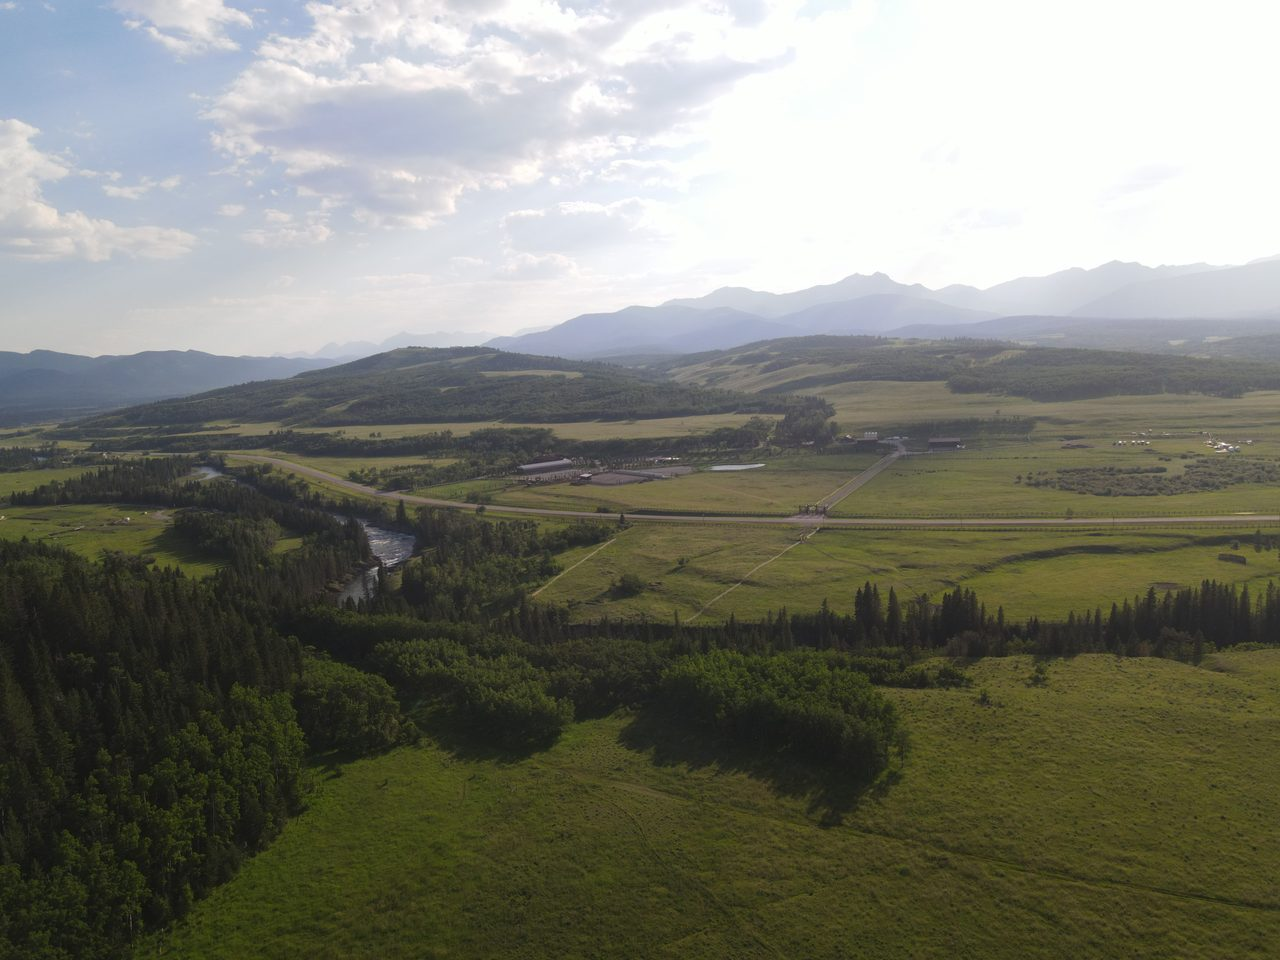
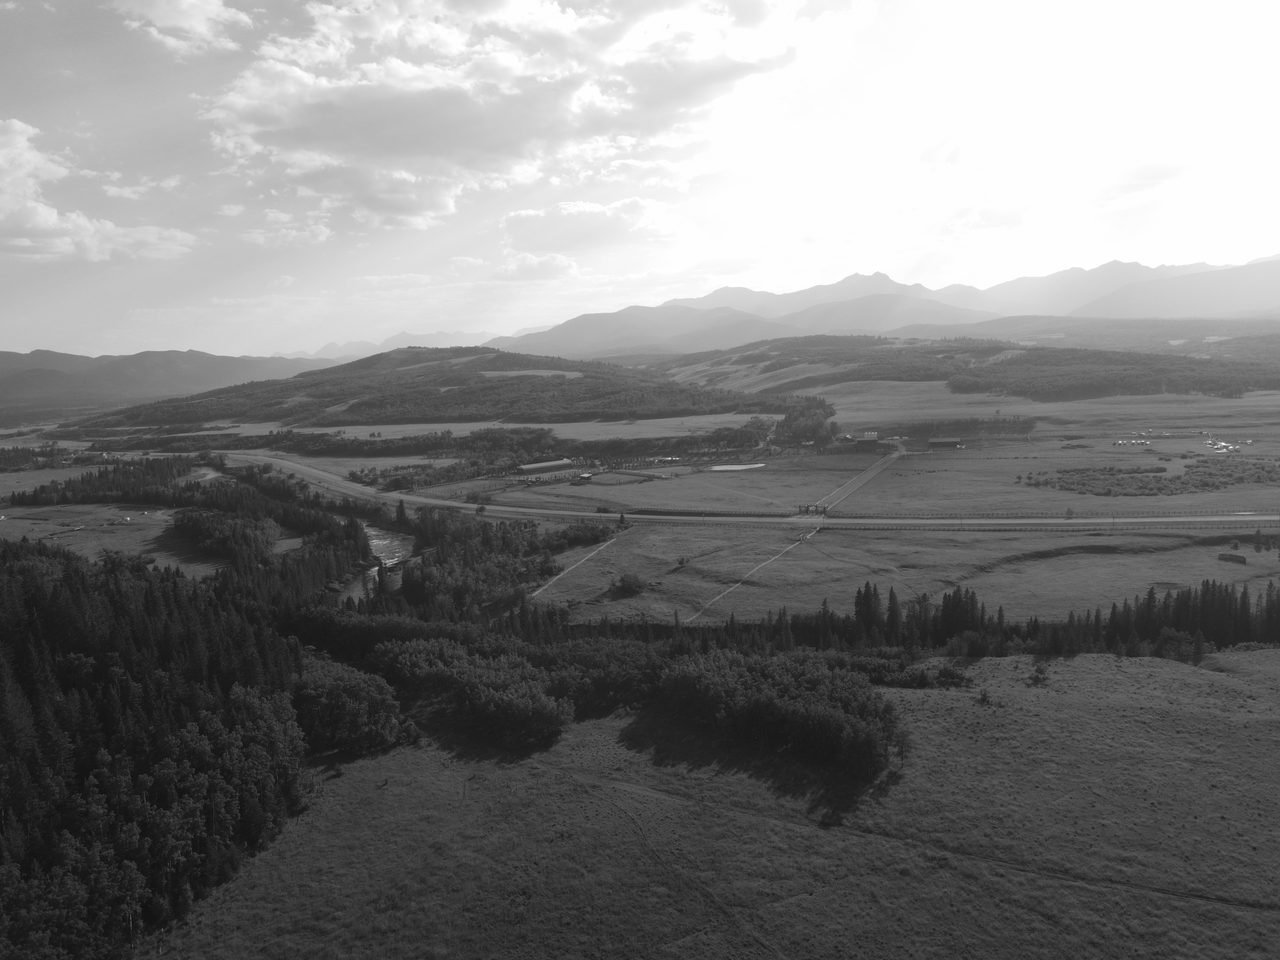
History page: era photo treatments (B&W, sepia, vintage 70s tone)
1885 (Henry Minesinger): converted aerial-summer-valley to black & white.
Only used on this one era, so edited in place -- confirmed via grep before
touching it.

1920-1947 (Weadick & LaDue): replaced the text-only placeholder with the
supplied cabin photo, sepia-toned (classic sepia matrix + slight contrast/
brightness adjustment), framed with the same card__frame ornament used on
every other era photo. Captioned honestly as an illustrative stand-in
('the real Weadick & LaDue archival photograph is still being sourced'),
matching the site's existing pattern for placeholder imagery (e.g. the
'archive stand-ins' language already used on venues.html) rather than
presenting a modern photo as authentic period material.

1965-2013 (Edey/Stampede Boys' Ranch): applied a 1960s/70s vintage color
grade to winter-wagon-barn -- lifted shadows, warm red/yellow cast, pulled
blue, reduced contrast and saturation, soft vignette. Also only used on
this one era, edited in place.

Verified: 0 horizontal overflow at 1440px and 390px; new cabin frame
scales cleanly on mobile with no clipping. No other copy, links, or
sections changed.

diff --git a/history.html b/history.html
@@ -180,9 +180,21 @@
               region. A lodge and guest cabins welcome visitors for trail rides, hunting and fishing trips, and ranch
               rodeos, until Weadick sells the property in 1947. The instinct to host — to make the ranch an
               experience, not just an operation — starts here.</p>
-            <div class="era__media">
-              <div class="era__placeholder">Archival photography — Weadick &amp; LaDue era<br>(to be sourced from the Glenbow Archives / family collection)</div>
-            </div>
+            <figure class="era__media">
+              <div class="card__frame">
+                <svg class="frame-corner frame-corner--tl" aria-hidden="true" focusable="false"><use href="#frame-corner"/></svg>
+                <svg class="frame-corner frame-corner--tr" aria-hidden="true" focusable="false"><use href="#frame-corner"/></svg>
+                <svg class="frame-corner frame-corner--bl" aria-hidden="true" focusable="false"><use href="#frame-corner"/></svg>
+                <svg class="frame-corner frame-corner--br" aria-hidden="true" focusable="false"><use href="#frame-corner"/></svg>
+                <svg class="frame-flourish frame-flourish--top" aria-hidden="true" focusable="false"><use href="#frame-flourish"/></svg>
+                <svg class="frame-flourish frame-flourish--bottom" aria-hidden="true" focusable="false"><use href="#frame-flourish"/></svg>
+                <picture>
+                  <source type="image/webp" srcset="assets/img/archival-cabin-weadick-640.webp 640w, assets/img/archival-cabin-weadick-1280.webp 1280w" sizes="(max-width: 860px) 92vw, 60vw">
+                  <img src="assets/img/archival-cabin-weadick-1280.jpg" alt="A ranch log cabin, sepia-toned to evoke the Weadick and LaDue dude-ranch era" loading="lazy" width="1280" height="720">
+                </picture>
+              </div>
+              <figcaption>Illustrative image, sepia-toned for the era — the real Weadick &amp; LaDue archival photograph is still being sourced.</figcaption>
+            </figure>
           </div>
         </div>
       </article>
